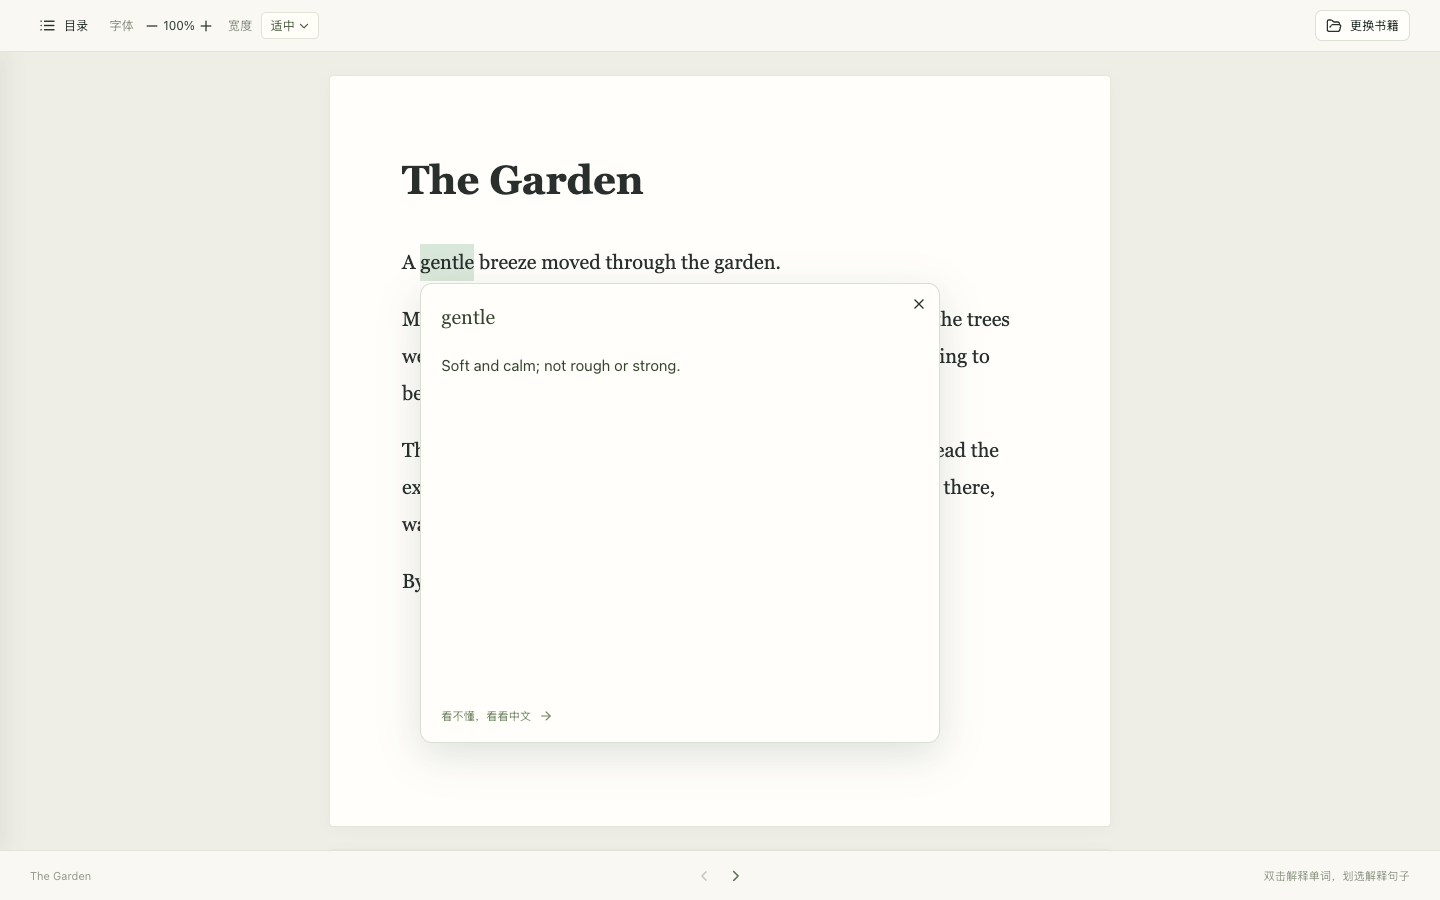
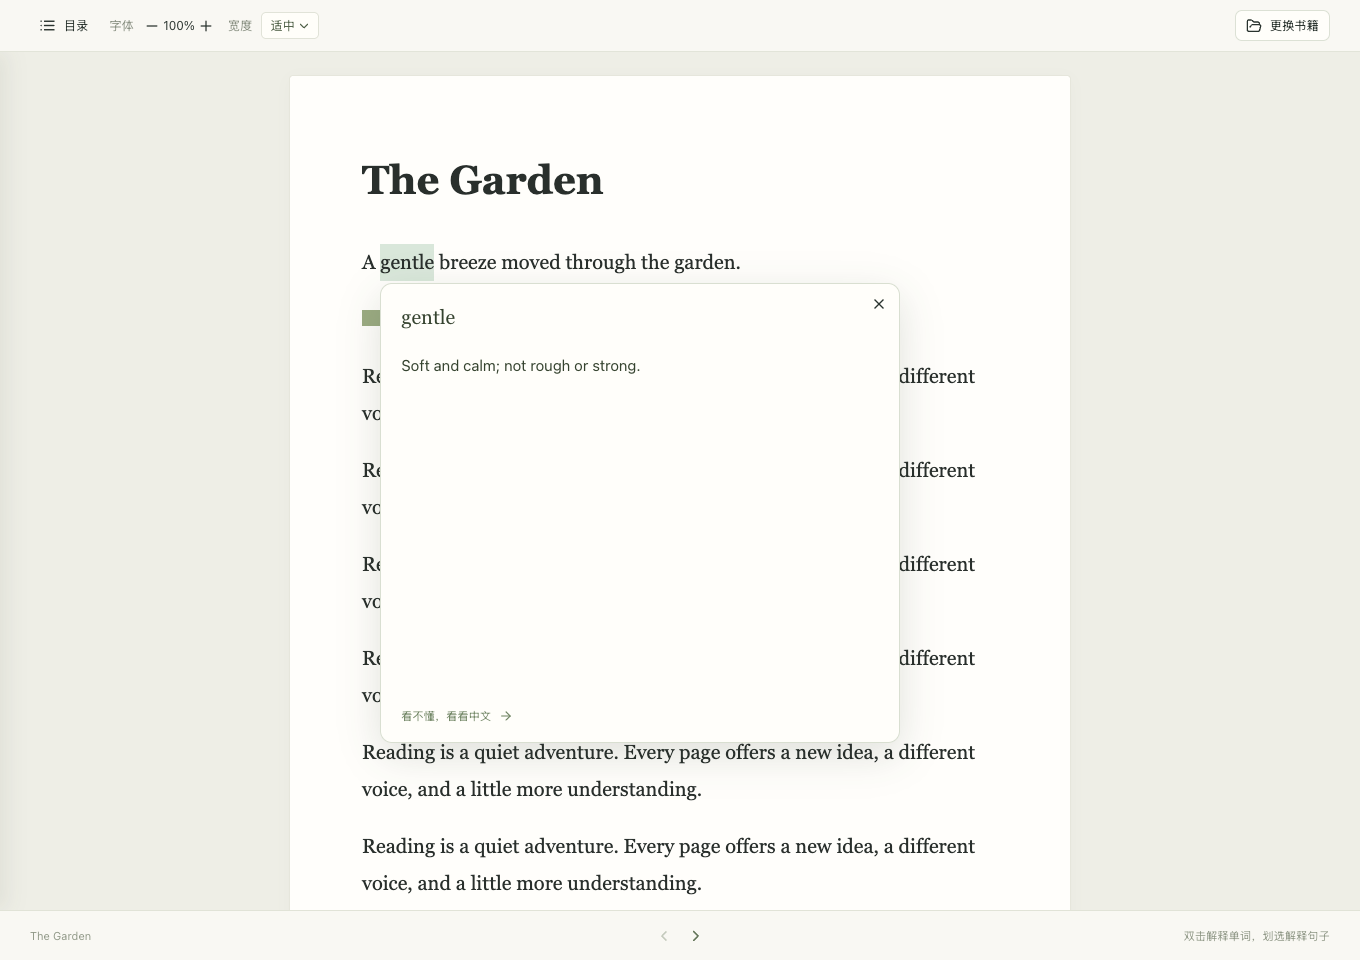
Rename Reader to Glean and prepare production deployment at /glean/

diff --git a/tests/browser/reader.spec.ts b/tests/browser/reader.spec.ts
@@ -38,18 +38,18 @@ test("base path, assets, deep refresh, relative redirect and API errors", async 
   const errors: string[] = [];
   page.on("pageerror", (error) => errors.push(error.message));
   await page.setViewportSize({ width: 1189, height: 655 });
-  await page.goto("/reader/");
+  await page.goto("/glean/");
   await expect(
     page.getByRole("heading", { name: /跨过语言壁垒，\s*看见更广阔的世界/ }),
   ).toBeVisible();
   await page.screenshot({ path: ".tmp/home.png", fullPage: true });
-  await page.goto("/reader/reading");
+  await page.goto("/glean/reading");
   await page.reload();
   await expect(page.getByRole("button", { name: "开始阅读" })).toBeVisible();
-  const redirect = await request.get("/reader?test=1", { maxRedirects: 0 });
+  const redirect = await request.get("/glean?test=1", { maxRedirects: 0 });
   expect(redirect.status()).toBe(308);
-  expect(redirect.headers().location).toBe("/reader/?test=1");
-  const missing = await request.get("/reader/api/missing");
+  expect(redirect.headers().location).toBe("/glean/?test=1");
+  const missing = await request.get("/glean/api/missing");
   expect(missing.status()).toBe(404);
   expect(missing.headers()["content-type"]).toContain("json");
   expect(errors).toEqual([]);
@@ -60,7 +60,7 @@ test("EPUB cover is not clipped and short chapters fill the reading viewport", a
   const zip = await JSZip.loadAsync(fixture.buffer);
   zip.file("OEBPS/one.xhtml", '<html xmlns="http://www.w3.org/1999/xhtml"><head><title>Cover</title></head><body><svg xmlns="http://www.w3.org/2000/svg" width="600" height="800" viewBox="0 0 600 800"><text x="50" y="760">Cover translator</text></svg><p id="cover-end">End of cover</p></body></html>');
   await page.setViewportSize({ width: 1189, height: 655 });
-  await page.goto("/reader/");
+  await page.goto("/glean/");
   await page.getByLabel("选择电子书").setInputFiles({ ...fixture, buffer: await zip.generateAsync({ type: "nodebuffer" }) });
   const cover = page.frameLocator(".epub-content iframe").first();
   await expect(cover.locator("#cover-end")).toBeVisible();
@@ -75,7 +75,7 @@ test("EPUB cover is not clipped and short chapters fill the reading viewport", a
 
 test("EPUB scrolls within a fixed window and supports zoom", async ({ page }) => {
   await page.setViewportSize({ width: 1189, height: 655 });
-  await page.goto("/reader/");
+  await page.goto("/glean/");
   await page.getByLabel("选择电子书").setInputFiles(await epubFixture());
   const frame = page.frameLocator(".epub-content iframe").first();
   await expect(frame.locator("#sentence")).toBeVisible();
@@ -98,7 +98,7 @@ test("EPUB scrolls within a fixed window and supports zoom", async ({ page }) =>
 });
 
 test("EPUB XML declarations and doctypes preserve chapters and navigation", async ({ page }) => {
-  await page.goto("/reader/");
+  await page.goto("/glean/");
   await page.getByLabel("选择电子书").setInputFiles(await epubFixture(true));
   const frame = page.frameLocator(".epub-content iframe").first();
   await expect(frame.locator("body")).not.toContainText("XML declaration allowed only");
@@ -119,7 +119,7 @@ test("EPUB local reading, safe content, word/Chinese/cache, font size, directory
   page.on("request", (req) => {
     if (req.url().startsWith("https:")) remote.push(req.url());
   });
-  await page.goto("/reader/");
+  await page.goto("/glean/");
   await page.getByLabel("选择电子书").setInputFiles(await epubFixture());
   const frame = page.frameLocator(".epub-content iframe").first();
   await expect(frame.locator("#sentence")).toBeVisible();
@@ -181,7 +181,7 @@ test("PDF text layer, click, zoom, page navigation and scanned-page notice", asy
 }) => {
   const errors: string[] = [];
   page.on("pageerror", (error) => errors.push(error.message));
-  await page.goto("/reader/");
+  await page.goto("/glean/");
   await page.getByLabel("选择电子书").setInputFiles(await pdfFixture());
   const sentence = page
     .locator(".textLayer span")
@@ -211,8 +211,8 @@ test("PDF text layer, click, zoom, page navigation and scanned-page notice", asy
 test("sentence selection explains immediately; network failure keeps selection and retry works", async ({
   page,
 }) => {
-  await page.goto("/reader/");
-  await page.route("**/reader/api/translate", (route) =>
+  await page.goto("/glean/");
+  await page.route("**/glean/api/translate", (route) =>
     route.abort("connectionfailed"),
   );
   await page.getByLabel("选择电子书").setInputFiles(await pdfFixture());
@@ -231,7 +231,7 @@ test("sentence selection explains immediately; network failure keeps selection a
   await expect(
     page.getByRole("dialog").locator(".selected-text"),
   ).toContainText("gentle breeze");
-  await page.unroute("**/reader/api/translate");
+  await page.unroute("**/glean/api/translate");
   await page.getByRole("button", { name: "重试", exact: true }).click();
   await expect(page.getByRole("dialog")).toContainText(
     "Soft and calm; not rough or strong.",

diff --git a/src/App.tsx b/src/App.tsx
@@ -56,7 +56,7 @@ export default function App() {
     const timer = setTimeout(() => abort.abort(), 5000);
     let alive = true;
     setHealth("checking");
-    fetch("/reader/api/health", { signal: abort.signal })
+    fetch("/glean/api/health", { signal: abort.signal })
       .then((response) => {
         if (!response.ok) throw new Error();
         return response.json();
@@ -246,7 +246,7 @@ export default function App() {
             <div className="section-intro">
               <span className="section-eyebrow">从兴趣出发，留在原文里</span>
               <h2 id="features-title">让解释，也成为语言输入</h2>
-              <p>你想读的那本书，可能还稍微有点难。Reader 帮你解开眼前的词句，让阅读继续。</p>
+              <p>你想读的那本书，可能还稍微有点难。Glean 帮你解开眼前的词句，让阅读继续。</p>
             </div>
             <div className="feature-grid">
               <article>
@@ -272,20 +272,20 @@ export default function App() {
             <div className="section-intro">
               <span className="section-eyebrow">设计背后的语言学习理念</span>
               <h2 id="theory-title">为什么先用原文的语言解释？</h2>
-              <p>Reader 的设计受到语言学家 Stephen Krashen 的第二语言习得理论启发：在感兴趣的阅读中，接触更多能够理解的原文。</p>
+              <p>Glean 的设计受到语言学家 Stephen Krashen 的第二语言习得理论启发：在感兴趣的阅读中，接触更多能够理解的原文。</p>
             </div>
             <div className="theory-list">
               <article>
                 <div><span>可理解输入假说</span><h3>理解，是语言习得的起点</h3></div>
-                <p>这一假说认为，人通过理解包含略高于现有水平的语言内容来发展语言能力。Reader 用同一种语言里更简单的词句解释难点，帮助你读懂眼前的原文，让解释本身也成为语言输入。</p>
+                <p>这一假说认为，人通过理解包含略高于现有水平的语言内容来发展语言能力。Glean 用同一种语言里更简单的词句解释难点，帮助你读懂眼前的原文，让解释本身也成为语言输入。</p>
               </article>
               <article>
                 <div><span>习得与学习假说</span><h3>在理解意思的过程中，熟悉语言</h3></div>
-                <p>Krashen 区分了在有意义的交流中自然习得语言，与有意识地学习语言规则。Reader 鼓励你把注意力放在故事、观点和表达上，先通过原文语言理解，中文作为需要时的辅助。</p>
+                <p>Krashen 区分了在有意义的交流中自然习得语言，与有意识地学习语言规则。Glean 鼓励你把注意力放在故事、观点和表达上，先通过原文语言理解，中文作为需要时的辅助。</p>
               </article>
               <article>
                 <div><span>情感过滤假说</span><h3>少一点焦虑，多一点阅读的意愿</h3></div>
-                <p>这一假说强调动机、自信和焦虑对语言习得的影响。自己选择感兴趣的原著，卡住时随时获得帮助，是 Reader 希望降低阅读压力、支持持续阅读的方式。</p>
+                <p>这一假说强调动机、自信和焦虑对语言习得的影响。自己选择感兴趣的原著，卡住时随时获得帮助，是 Glean 希望降低阅读压力、支持持续阅读的方式。</p>
               </article>
             </div>
           </section>

diff --git a/tests/server.test.ts b/tests/server.test.ts
@@ -30,7 +30,7 @@ async function withApp(
   }
 }
 const request = (url: string, body: unknown, signal?: AbortSignal) =>
-  fetch(`${url}/reader/api/translate`, {
+  fetch(`${url}/glean/api/translate`, {
     method: "POST",
     headers: { "content-type": "application/json" },
     body: JSON.stringify(body),
@@ -42,17 +42,17 @@ const sse = (value: string) =>
 test("health does not call model or expose credentials; redirects preserve base and query; API 404 is JSON", async () => {
   await withApp(
     async (url) => {
-      assert.deepEqual(await (await fetch(url + "/reader/api/health")).json(), {
+      assert.deepEqual(await (await fetch(url + "/glean/api/health")).json(), {
         status: "ok",
         llmConfigured: true,
         translationTimeoutMs: 1000,
       });
-      const redirect = await fetch(url + "/reader?hello=1", {
+      const redirect = await fetch(url + "/glean?hello=1", {
         redirect: "manual",
       });
       assert.equal(redirect.status, 308);
-      assert.equal(redirect.headers.get("location"), "/reader/?hello=1");
-      const missing = await fetch(url + "/reader/api/missing");
+      assert.equal(redirect.headers.get("location"), "/glean/?hello=1");
+      const missing = await fetch(url + "/glean/api/missing");
       assert.equal(missing.status, 404);
       assert.match(missing.headers.get("content-type")!, /json/);
     },
@@ -106,7 +106,7 @@ test("invalid input, malformed JSON and missing config produce JSON errors", asy
         (await request(url, { text: "hello", language: "fr" })).status,
         400,
       );
-      const bad = await fetch(url + "/reader/api/translate", {
+      const bad = await fetch(url + "/glean/api/translate", {
         method: "POST",
         headers: { "content-type": "application/json" },
         body: "{",

diff --git a/server/app.ts b/server/app.ts
@@ -12,25 +12,25 @@ export function createApp(config: Config, fetchModel: typeof fetch = fetch) {
     res.setHeader("Referrer-Policy", "no-referrer");
     next();
   });
-  app.get(/^\/reader$/, (req, res) => {
+  app.get(/^\/glean$/, (req, res) => {
     const query = req.originalUrl.includes("?")
       ? req.originalUrl.slice(req.originalUrl.indexOf("?"))
       : "";
-    res.redirect(308, `/reader/${query}`);
+    res.redirect(308, `/glean/${query}`);
   });
-  app.use("/reader/api", (_req, res, next) => {
+  app.use("/glean/api", (_req, res, next) => {
     res.setHeader("Cache-Control", "no-store");
     next();
   });
-  app.get("/reader/api/health", (_req, res) =>
+  app.get("/glean/api/health", (_req, res) =>
     res.json({
       status: "ok",
       llmConfigured: isConfigured(config),
       translationTimeoutMs: config.llm.timeoutMs,
     }),
   );
-  app.use("/reader/api", express.json({ limit: "1mb" }));
-  app.post("/reader/api/translate", async (req, res) => {
+  app.use("/glean/api", express.json({ limit: "1mb" }));
+  app.post("/glean/api/translate", async (req, res) => {
     const { text, language } = req.body || {};
     if (
       typeof text !== "string" ||
@@ -141,7 +141,7 @@ export function createApp(config: Config, fetchModel: typeof fetch = fetch) {
       clearTimeout(timeout);
     }
   });
-  app.use("/reader/api", (_req, res) =>
+  app.use("/glean/api", (_req, res) =>
     res.status(404).json({ error: "接口不存在。" }),
   );
   app.use(((err: { type?: string }, _req, res, _next) => {

diff --git a/server/index.ts b/server/index.ts
@@ -31,8 +31,8 @@ app.use((_req, res, next) => {
 });
 if (production) {
   const root = resolve("dist/client");
-  app.use("/reader", express.static(root, { index: false }));
-  app.get(/^\/reader\/(?!assets\/|pdf-assets\/).*/, (req, res, next) => {
+  app.use("/glean", express.static(root, { index: false }));
+  app.get(/^\/glean\/(?!assets\/|pdf-assets\/).*/, (req, res, next) => {
     if (!req.accepts("html") || /\.[a-z0-9]+$/i.test(req.path)) {
       next();
       return;
@@ -44,7 +44,7 @@ if (production) {
   const pdfRoot = dirname(require.resolve("pdfjs-dist/package.json"));
   for (const name of ["cmaps", "standard_fonts", "wasm", "iccs"])
     app.use(
-      `/reader/pdf-assets/${name}`,
+      `/glean/pdf-assets/${name}`,
       express.static(resolve(pdfRoot, name)),
     );
   const { createServer } = await import("vite");
@@ -59,7 +59,7 @@ if (production) {
       next(error);
     });
   });
-  app.get(/^\/reader\/.*/, async (req, res, next) => {
+  app.get(/^\/glean\/.*/, async (req, res, next) => {
     try {
       const html = await vite.transformIndexHtml(
         req.originalUrl,
@@ -73,7 +73,7 @@ if (production) {
 }
 app.use((_req, res) => res.status(404).type("text").send("Not found"));
 const server = app.listen(config.port, config.host, () => {
-  console.log(`Reader: http://${config.host}:${config.port}/reader/`);
+  console.log(`Glean: http://${config.host}:${config.port}/glean/`);
   console.log(
     isConfigured(config)
       ? "模型配置已加载。"

diff --git a/src/PixelBrand.tsx b/src/PixelBrand.tsx
@@ -1,22 +1,21 @@
-// Original Reader glyphs, using the same SVG pixel construction as the personal-site logo.
+// Original Glean glyphs, using the same SVG pixel construction as the personal-site logo.
 const glyphs = [
-  ["####.", "#...#", "#...#", "####.", "#.#..", "#..#.", "#...#"],
+  [".###.", "#...#", "#....", "#.###", "#...#", "#...#", ".###."],
+  [".##..", "..#..", "..#..", "..#..", "..#..", "..#..", ".###."],
   [".....", ".....", ".###.", "#...#", "#####", "#....", ".####"],
   [".....", ".....", ".###.", "....#", ".####", "#...#", ".####"],
-  ["....#", "....#", ".####", "#...#", "#...#", "#...#", ".####"],
-  [".....", ".....", ".###.", "#...#", "#####", "#....", ".####"],
-  [".....", ".....", "#.##.", "##..#", "#....", "#....", "#...."],
+  [".....", ".....", "####.", "#...#", "#...#", "#...#", "#...#"],
 ];
 
 export function PixelWordmark() {
   return (
     <svg
       className="pixel-wordmark"
-      viewBox="0 0 38 7"
-      width="114"
+      viewBox="0 0 32 7"
+      width="96"
       height="21"
       role="img"
-      aria-label="Reader"
+      aria-label="Glean"
       shapeRendering="crispEdges"
     >
       {glyphs.flatMap((glyph, index) =>
@@ -32,7 +31,7 @@ export function PixelWordmark() {
           )),
         ),
       )}
-      <rect className="brand-dot" x="36" y="6" width="2" height="1" />
+      <rect className="brand-dot" x="30" y="6" width="2" height="1" />
     </svg>
   );
 }

diff --git a/public/reading-room/index.html b/public/reading-room/index.html
@@ -4,12 +4,12 @@
   <meta charset="UTF-8" />
   <meta name="viewport" content="width=device-width, initial-scale=1.0" />
   <meta name="theme-color" content="#17151a" />
-  <title>炉边 · A room for reading</title>
+  <title>Glean · 炉边</title>
   <link rel="stylesheet" href="./scene.css" />
 </head>
 <body>
   <main>
-    <header><a href="/reader/" aria-label="返回 Reader">← READER</a><span>A ROOM FOR READING</span></header>
+    <header><a href="/glean/" aria-label="返回 Glean">← GLEAN</a><span>A ROOM FOR READING</span></header>
     <section class="frame" aria-label="温暖的阅读房间动画">
       <canvas id="room" width="1280" height="800" role="img" aria-label="木屋里的温暖阅读角：燃烧的壁炉、松软的沙发、针织毯、摆着摊开书本的茶桌、书架和冒着热气的茶。窗外雪花慢慢落下。"></canvas>
       <div class="frame-corner corner-one"></div><div class="frame-corner corner-two"></div>

diff --git a/src/readers/PdfReader.tsx b/src/readers/PdfReader.tsx
@@ -18,11 +18,11 @@ pdfjs.GlobalWorkerOptions.workerSrc = new URL(
   import.meta.url,
 ).toString();
 const options = {
-  cMapUrl: "/reader/pdf-assets/cmaps/",
+  cMapUrl: "/glean/pdf-assets/cmaps/",
   cMapPacked: true,
-  standardFontDataUrl: "/reader/pdf-assets/standard_fonts/",
-  wasmUrl: "/reader/pdf-assets/wasm/",
-  iccUrl: "/reader/pdf-assets/iccs/",
+  standardFontDataUrl: "/glean/pdf-assets/standard_fonts/",
+  wasmUrl: "/glean/pdf-assets/wasm/",
+  iccUrl: "/glean/pdf-assets/iccs/",
   isEvalSupported: false,
 };
 type PdfDocument = Awaited<ReturnType<typeof pdfjs.getDocument>["promise"]>;

diff --git a/src/translation.ts b/src/translation.ts
@@ -6,7 +6,7 @@ export async function translate(
   signal: AbortSignal,
   onDelta: (text: string) => void,
 ) {
-  const response = await fetch("/reader/api/translate", {
+  const response = await fetch("/glean/api/translate", {
     method: "POST",
     headers: { "Content-Type": "application/json" },
     body: JSON.stringify({ text, language }),

diff --git a/index.html b/index.html
@@ -8,7 +8,7 @@
       name="description"
       content="打开一本英文书，用简单英文读懂它。支持 EPUB 和 PDF 的本地阅读与选词解释。"
     />
-    <title>Reader · 慢慢读懂</title>
+    <title>Glean · 慢慢读懂</title>
   </head>
   <body>
     <div id="root"></div>

diff --git a/playwright.config.ts b/playwright.config.ts
@@ -16,7 +16,7 @@ export default defineConfig({
   },
   webServer: {
     command: "npx tsx tests/serve-e2e.ts",
-    url: "http://127.0.0.1:43137/reader/api/health",
+    url: "http://127.0.0.1:43137/glean/api/health",
     reuseExistingServer: false,
     timeout: 30000,
   },

diff --git a/vite.config.ts b/vite.config.ts
@@ -8,7 +8,7 @@ const require = createRequire(import.meta.url);
 const pdfRoot = dirname(require.resolve("pdfjs-dist/package.json"));
 
 export default defineConfig({
-  base: "/reader/",
+  base: "/glean/",
   plugins: [
     react(),
     {
